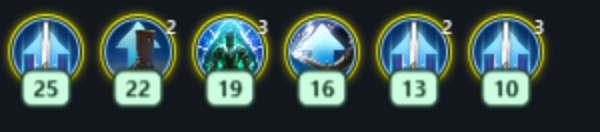
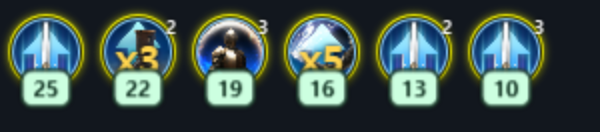
README 갱신: 아이콘 분리·결합, 배치 모드, 버프 스택, 원형 색상표

Changed region(s): [[0.33, 0.1515, 0.45, 0.5455], [0.48, 0.303, 0.57, 0.5455], [0.18, 0.3333, 0.27, 0.5455]]

diff --git a/README.md b/README.md
@@ -77,15 +77,39 @@
 
 ### 버프 전용 창
 
-<img src="docs/images/buffs.png" width="300" alt="버프 아이콘과 남은 시간" />
+<img src="docs/images/buffs.png" width="300" alt="버프 아이콘과 남은 시간, 3스택과 5스택 표시" />
 
 **설정 → 버프**에서 버프 전용 창을 켜고, 아이콘 크기와 표시할 버프를 선택합니다. 트레이로 숨길 때 함께 숨기는 옵션도 제공합니다.
+
+여러 번 겹쳐 쌓이는 버프(예: 문양)는 **2스택부터 아이콘 가운데에 `x2`·`x3`처럼 스택 수**를 표시합니다. 스택 수의 **색상·글자 크기·글꼴**은 **설정 → 버프**에서 바꿀 수 있습니다.
 
 ### 스킬 쿨타임 창
 
 <img src="docs/images/cooldowns.png" width="300" alt="파티원과 본인의 스킬 쿨타임을 두 줄로 표시한 예시" />
 
 본인과 파티원의 스킬 쿨타임을 남은 시간과 원형 게이지로 표시합니다. **설정 → 버프**에서 쿨타임 창을 켠 뒤 **스킬 쿨타임 필터 설정**으로 추적할 스킬을 선택합니다. 파티원 쿨타임을 윗줄에 놓거나 아이콘 테두리와 색상을 조절할 수 있습니다.
+
+### 아이콘 나누기·합치기 (버프·디버프·쿨타임)
+
+<img src="docs/images/icon-groups.png" width="700" alt="Ctrl+Alt 드래그로 아이콘을 떼어 분리 창을 만들고, 분리 창을 끌어 다른 창에 붙이면 초록 테두리가 뜨며 합쳐지는 과정" />
+
+버프·디버프·쿨타임 창의 아이콘을 원하는 위치에 따로 띄울 수 있습니다.
+
+- **떼어 내기**: 아이콘을 **Ctrl+Alt+드래그**하면 그 아이콘만 별도 창(분리 창)으로 떨어집니다. 이후 그 아이콘은 계속 그 창에 표시됩니다.
+- **합치기**: 분리 창을 **그냥 드래그**해서 같은 종류의 다른 창(분리 창 또는 기본 창) 가까이 가져가면 **초록 테두리**가 나타납니다. 이때 놓으면 아이콘이 모두 그 창으로 합쳐지고 끌던 창은 사라집니다.
+- 아이콘 하나만 다른 창으로 옮길 때는 **Ctrl+Alt+드래그**로 끌어 다른 창 근처에 놓습니다.
+- 드래그 중 **Esc**를 누르면 취소됩니다. 클릭 통과가 켜져 있으면 창을 끌 수 없으니 먼저 꺼 주세요.
+- 배치는 저장되어 다음 실행에도 유지됩니다. 처음 상태로 되돌리려면 **설정 → 버프 → 아이콘 분리 초기화**를 누릅니다.
+
+### 아이콘 배치 모드
+
+<img src="docs/images/layout-mode.png" width="760" alt="배치 모드 창과, 필터에 추가한 아이콘이 흐리게 미리 표시되고 쿨타임 창에 파티원 줄 자리가 잡힌 모습" />
+
+**설정 → 버프 → 아이콘 배치 모드**를 열면 게임에서 버프·쿨타임이 실제로 뜨지 않아도 배치를 미리 잡을 수 있습니다.
+
+- 각 필터에 추가한 항목이 소속 창(기본/분리)에 **흐리게** 표시되고, 창마다 "기본"·"분리 N" 이름표가 붙습니다.
+- 쿨타임 창에는 **파티원 줄 자리**가 표시되어 파티원 쿨타임이 어디에 나올지 알 수 있습니다. 실제 파티원 쿨타임이 들어오면 자리 표시는 사라집니다.
+- 배치 모드 동안은 클릭 통과가 잠시 풀려 바로 끌어서 배치할 수 있고, **배치 끝내기**를 누르면 원래 설정으로 돌아갑니다.
 
 ### 버프·디버프 유지내역
 
@@ -148,7 +172,7 @@
 </details>
 
 <details>
-<summary><b>버프 — 버프 창, 필터, 스킬 쿨타임</b></summary>
+<summary><b>버프 — 버프 창, 스택 표시, 필터, 스킬 쿨타임, 아이콘 배치</b></summary>
 
 <p><img src="docs/images/settings-buff.png" width="430" alt="버프 및 쿨타임 설정 탭" /></p>
 
@@ -166,6 +190,10 @@
 
 <p><img src="docs/images/settings-color.png" width="430" alt="색상 설정 탭" /></p>
 
+색상 칸 옆의 네모를 누르면 원형 색상표가 열립니다. 색상환·밝기·투명도를 **드래그하는 동안 미터기에 바로 반영**되며, 색상표에서 취소하거나 설정 창을 저장하지 않고 닫으면 원래 색으로 돌아갑니다.
+
+<p><img src="docs/images/color-wheel.png" width="286" alt="원형 색상환과 밝기·투명도 막대, 색상 코드 입력칸" /></p>
+
 </details>
 
 <details>
@@ -176,9 +204,11 @@
 </details>
 
 <details>
-<summary><b>시스템 — 캡처 모드, 언어, 최적화</b></summary>
+<summary><b>시스템 — 캡처 모드, 언어, 최적화, 커뮤니티 사이트</b></summary>
 
 <p><img src="docs/images/settings-system.png" width="430" alt="시스템 설정 탭" /></p>
+
+**커뮤니티 사이트 열기** 버튼으로 전투 통계 사이트를 기본 브라우저에서 엽니다.
 
 </details>
 
@@ -196,4 +226,3 @@
 단축키는 **설정 → 단축키**에서 변경할 수 있습니다. 실제 동작에는 저장된 설정값이 사용됩니다. 마우스로 창을 조작할 수 없으면 클릭 통과를 꺼 주세요.
 
 [특수 키·넘패드 등 단축키 입력 방법](docs/HOTKEYS.md)
-
